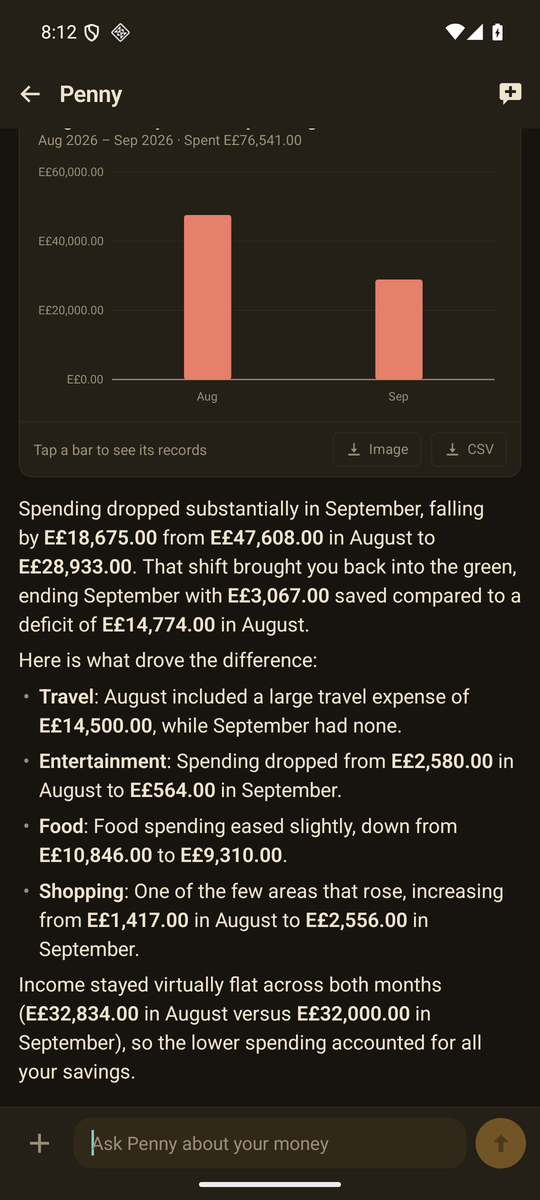
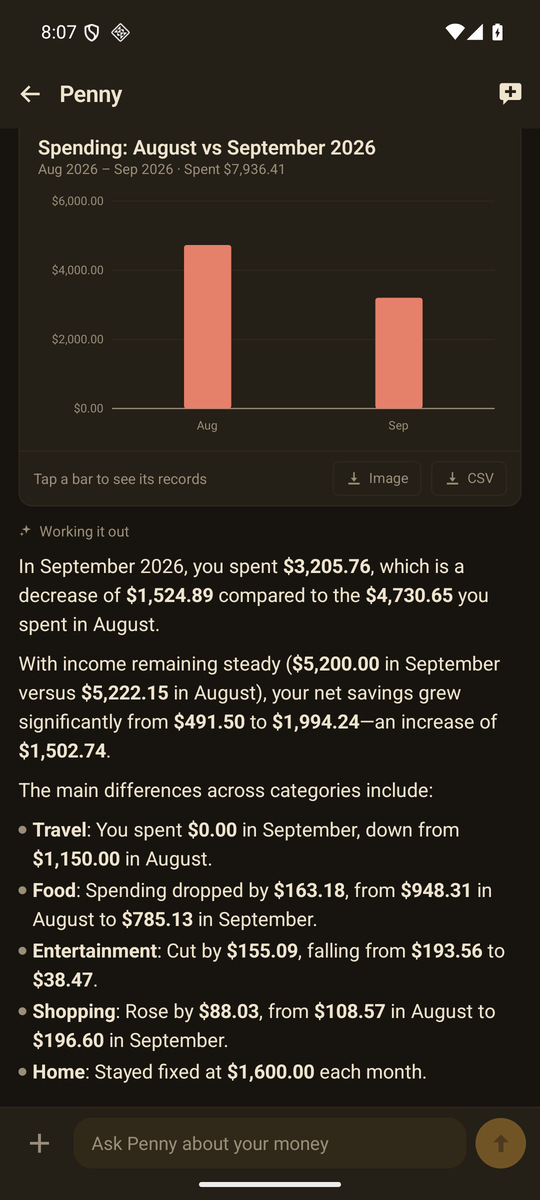
feat(store): Penny's screenshots in dollars too
The demo ledger the Penny shots restore was still a year in pounds, with
Cairo's restaurants and a hotel in Dahab. It is now in US dollars with no
country in it, and writes its homeCurrency INTO the file — Restore replaces
the settings table, so without the row a restored ledger fell back to the
default currency and labelled every dollar as something else. The two
accounts it creates itself now say their currency too; createAccount
defaults to EGP, and the reconciliation test caught them out.

The receipt Penny reads in the third shot is a new dollar one
(scripts/fixtures/receipt-usd.jpg). The EGP fixture stays: the live suite
asserts its exact total.

Regenerated with a real Gemini key: the receipt reads as $13.77 on the
Visa, under Coffee, dated 5 October.

Claude-Session: https://claude.ai/code/session_016A4uHJzvG2yWgxFmH5N3nv

diff --git a/src/test/demo-ledger.ts b/src/test/demo-ledger.ts
@@ -11,7 +11,8 @@
  *   npm run demo:ledger      → .demo/peace-demo.db, pushed to the device's Download
  *
  * THE LEDGER IS INVENTED. The repository is public and real records do not go
- * in it. Amounts come from a seeded generator, so the same file comes out every
+ * in it. It is in US DOLLARS with no country's shops or places in it, because
+ * what it renders becomes the README, the website and the Play listing. Amounts come from a seeded generator, so the same file comes out every
  * time and a screenshot taken today matches one taken next month.
  */
 import { createAccount } from '../db/repo/accounts';
@@ -20,6 +21,7 @@ import { setBudget } from '../db/repo/budgets';
 import { createRule } from '../db/repo/recurring';
 import { ensureTag, setRecordTags } from '../db/repo/tags';
 import { createRecord, createTransfer } from '../db/repo/transactions';
+import { settings } from '../db/schema';
 import { accountId, catId, seedDefaults } from '../db/seed';
 import { addMonths, periodOf } from '../lib/period';
 import type { TestDb } from './db';
@@ -38,22 +40,29 @@ function generator(seed: number) {
 
 export type DemoSummary = { records: number; months: number; rules: number };
 
+/** The ledger's home currency — and the `homeCurrency` setting a restore brings with it. */
+export const DEMO_CURRENCY = 'USD';
+
 export function buildDemoLedger(db: TestDb, now: Date): DemoSummary {
-  seedDefaults(db, 'EGP');
+  seedDefaults(db, DEMO_CURRENCY);
+  // Written INTO the file, because Restore replaces the settings table: without
+  // this row a restored ledger falls back to the built-in default currency and
+  // every dollar on screen is labelled as something else.
+  db.insert(settings).values({ key: 'homeCurrency', value: DEMO_CURRENCY, updatedAt: new Date() }).run();
   const rand = generator(20261007);
   const between = (lo: number, hi: number) => lo + rand() * (hi - lo);
-  /** Whole pounds, in minor units — receipts rarely carry piastres. */
-  const pounds = (lo: number, hi: number) => Math.round(between(lo, hi)) * 100;
+  /** Dollars and cents, in minor units. */
+  const dollars = (lo: number, hi: number) => Math.round(between(lo, hi) * 100);
   const pick = <T,>(list: T[]) => list[Math.floor(rand() * list.length)];
 
   const CASH = accountId('cash');
   const BANK = accountId('bank');
-  const VISA = createAccount(db, { name: 'Visa', type: 'card', creditLimit: 5_000_000, statementDay: 25, dueDay: 10, icon: 'wallet', color: '#3B4E9E' }).id;
-  const SAVINGS = createAccount(db, { name: 'Savings', type: 'savings', openingBalance: 12_000_000, icon: 'bank', color: '#2E7D46' }).id;
+  const VISA = createAccount(db, { name: 'Visa', type: 'card', currency: DEMO_CURRENCY, creditLimit: 500_000, statementDay: 25, dueDay: 10, icon: 'wallet', color: '#3B4E9E' }).id;
+  const SAVINGS = createAccount(db, { name: 'Savings', type: 'savings', currency: DEMO_CURRENCY, openingBalance: 900_000, icon: 'bank', color: '#2E7D46' }).id;
 
   // Opening balances on the seeded accounts, so "Now" starts from something.
-  db.$client.prepare('update accounts set opening_balance = ? where id = ?').run(4_500_000, BANK);
-  db.$client.prepare('update accounts set opening_balance = ? where id = ?').run(150_000, CASH);
+  db.$client.prepare('update accounts set opening_balance = ? where id = ?').run(400_000, BANK);
+  db.$client.prepare('update accounts set opening_balance = ? where id = ?').run(12_000, CASH);
 
   const trip = ensureTag(db, 'Trip');
   const work = ensureTag(db, 'Work');
@@ -65,28 +74,28 @@ export function buildDemoLedger(db: TestDb, now: Date): DemoSummary {
 
   const spend = (account: string, category: string, minor: number, when: Date, note: string | null = null, tags: string[] = []) => {
     if (!past(when)) return;
-    const row = createRecord(db, { type: 'expense', accountId: account, categoryId: catId(category), amountMinor: minor, homeCurrency: 'EGP', occurredAt: when, note });
+    const row = createRecord(db, { type: 'expense', accountId: account, categoryId: catId(category), amountMinor: minor, homeCurrency: DEMO_CURRENCY, occurredAt: when, note });
     if (tags.length > 0) setRecordTags(db, row.id, tags);
     records++;
   };
   const earn = (account: string, category: string, minor: number, when: Date, note: string | null = null, ruleId: string | null = null) => {
     if (!past(when)) return;
-    createRecord(db, { type: 'income', accountId: account, categoryId: catId(category), amountMinor: minor, homeCurrency: 'EGP', occurredAt: when, note, recurringRuleId: ruleId });
+    createRecord(db, { type: 'income', accountId: account, categoryId: catId(category), amountMinor: minor, homeCurrency: DEMO_CURRENCY, occurredAt: when, note, recurringRuleId: ruleId });
     records++;
   };
   const move = (from: string, to: string, minor: number, when: Date, note: string, ruleId: string | null = null) => {
     if (!past(when)) return;
-    createTransfer(db, { fromAccountId: from, toAccountId: to, amountMinor: minor, homeCurrency: 'EGP', occurredAt: when, note, recurringRuleId: ruleId });
+    createTransfer(db, { fromAccountId: from, toAccountId: to, amountMinor: minor, homeCurrency: DEMO_CURRENCY, occurredAt: when, note, recurringRuleId: ruleId });
     records++;
   };
 
   // --- standing orders, a year back, each occurrence posted against its rule ---
   const first = addMonths(periodOf(now), -11);
   const startsOn = (day: number) => `${first}-${String(day).padStart(2, '0')}`;
-  const salaryRule = createRule(db, { name: 'Salary', type: 'income', accountId: BANK, categoryId: catId('salary'), amountMinor: 3_200_000, frequency: 'monthly', startsOn: startsOn(1) }).id;
-  const rentRule = createRule(db, { name: 'Rent', type: 'expense', accountId: BANK, categoryId: catId('home'), amountMinor: 950_000, frequency: 'monthly', startsOn: startsOn(3) }).id;
-  const netflixRule = createRule(db, { name: 'Netflix', type: 'expense', accountId: VISA, categoryId: catId('entertainment'), amountMinor: 25_000, frequency: 'monthly', startsOn: startsOn(12) }).id;
-  const savingsRule = createRule(db, { name: 'To savings', type: 'transfer', accountId: BANK, counterAccountId: SAVINGS, amountMinor: 500_000, frequency: 'monthly', startsOn: startsOn(2) }).id;
+  const salaryRule = createRule(db, { name: 'Salary', type: 'income', accountId: BANK, categoryId: catId('salary'), amountMinor: 520_000, frequency: 'monthly', startsOn: startsOn(1) }).id;
+  const rentRule = createRule(db, { name: 'Rent', type: 'expense', accountId: BANK, categoryId: catId('home'), amountMinor: 160_000, frequency: 'monthly', startsOn: startsOn(3) }).id;
+  const netflixRule = createRule(db, { name: 'Netflix', type: 'expense', accountId: VISA, categoryId: catId('entertainment'), amountMinor: 1_549, frequency: 'monthly', startsOn: startsOn(12) }).id;
+  const savingsRule = createRule(db, { name: 'To savings', type: 'transfer', accountId: BANK, counterAccountId: SAVINGS, amountMinor: 60_000, frequency: 'monthly', startsOn: startsOn(2) }).id;
 
   for (let i = 11; i >= 0; i--) {
     const period = addMonths(periodOf(now), -i);
@@ -97,74 +106,74 @@ export function buildDemoLedger(db: TestDb, now: Date): DemoSummary {
     const summer = m >= 5 && m <= 8;
 
     // Income
-    earn(BANK, 'salary', 3_200_000, at(y, m, 1, 9), 'Payroll', salaryRule);
-    if (m === 11 || m === 5) earn(BANK, 'bonus', 800_000, at(y, m, 20, 10), 'Half-year bonus');
-    if (rand() < 0.3) earn(SAVINGS, 'interest', pounds(600, 900), at(y, m, days, 8), 'Savings interest');
+    earn(BANK, 'salary', 520_000, at(y, m, 1, 9), 'Payroll', salaryRule);
+    if (m === 11 || m === 5) earn(BANK, 'bonus', 150_000, at(y, m, 20, 10), 'Half-year bonus');
+    if (rand() < 0.3) earn(SAVINGS, 'interest', dollars(12, 25), at(y, m, days, 8), 'Savings interest');
 
     // Standing orders (rent and Netflix by rule; utilities by hand)
     if (past(at(y, m, 3, 10))) {
-      createRecord(db, { type: 'expense', accountId: BANK, categoryId: catId('home'), amountMinor: 950_000, homeCurrency: 'EGP', occurredAt: at(y, m, 3, 10), note: 'Rent', recurringRuleId: rentRule });
+      createRecord(db, { type: 'expense', accountId: BANK, categoryId: catId('home'), amountMinor: 160_000, homeCurrency: DEMO_CURRENCY, occurredAt: at(y, m, 3, 10), note: 'Rent', recurringRuleId: rentRule });
       records++;
     }
     if (past(at(y, m, 12, 7))) {
-      createRecord(db, { type: 'expense', accountId: VISA, categoryId: catId('entertainment'), amountMinor: 25_000, homeCurrency: 'EGP', occurredAt: at(y, m, 12, 7), note: 'Netflix', recurringRuleId: netflixRule });
+      createRecord(db, { type: 'expense', accountId: VISA, categoryId: catId('entertainment'), amountMinor: 1_549, homeCurrency: DEMO_CURRENCY, occurredAt: at(y, m, 12, 7), note: 'Netflix', recurringRuleId: netflixRule });
       records++;
     }
-    move(BANK, SAVINGS, 500_000, at(y, m, 2, 11), 'Monthly saving', savingsRule);
-    spend(BANK, 'electricity', pounds(summer ? 850 : 420, summer ? 1300 : 650), at(y, m, day(5, 9), 18), 'Electricity bill');
-    spend(BANK, 'internet', 55_000, at(y, m, 6, 18), 'Home internet');
-    spend(BANK, 'telephone', pounds(280, 360), at(y, m, 8, 18), 'Mobile plan');
+    move(BANK, SAVINGS, 60_000, at(y, m, 2, 11), 'Monthly saving', savingsRule);
+    spend(BANK, 'electricity', dollars(summer ? 120 : 70, summer ? 180 : 105), at(y, m, day(5, 9), 18), 'Electricity bill');
+    spend(BANK, 'internet', 6_000, at(y, m, 6, 18), 'Home internet');
+    spend(BANK, 'telephone', dollars(35, 45), at(y, m, 8, 18), 'Mobile plan');
 
     // Cash out of the machine — a transfer, not spending
-    move(BANK, CASH, 200_000, at(y, m, day(1, 6), 13), 'ATM');
-    move(BANK, CASH, 200_000, at(y, m, day(14, 19), 13), 'ATM');
+    move(BANK, CASH, 20_000, at(y, m, day(1, 6), 13), 'ATM');
+    move(BANK, CASH, 20_000, at(y, m, day(14, 19), 13), 'ATM');
 
     // Groceries: a weekly shop on the card, top-ups in cash
-    for (let w = 0; w < 4; w++) spend(VISA, 'groceries', pounds(650, 1400), at(y, m, Math.min(days, 3 + w * 7 + day(0, 2)), 19), pick(['Carrefour', 'Spinneys', 'Gourmet', 'Metro']));
-    for (let k = 0; k < 3; k++) spend(CASH, 'groceries', pounds(60, 240), at(y, m, day(), 20), pick(['Bakery', 'Fruit stand', 'Kiosk']));
+    for (let w = 0; w < 4; w++) spend(VISA, 'groceries', dollars(60, 140), at(y, m, Math.min(days, 3 + w * 7 + day(0, 2)), 19), pick(['Supermarket', 'Farmers market', 'Wholesale club', 'Organic shop']));
+    for (let k = 0; k < 3; k++) spend(CASH, 'groceries', dollars(5, 22), at(y, m, day(), 20), pick(['Bakery', 'Fruit stand', 'Corner shop']));
 
     // Coffee — creeping up over the year, so month-to-month has a story
     const coffees = Math.round(between(6, 9) + (11 - i) * 0.6);
-    for (let k = 0; k < coffees; k++) spend(CASH, 'coffee', pounds(55, 115), at(y, m, day(), 9, day(0, 50)), pick(['Flat white', 'Espresso', 'Iced latte', 'Cappuccino']), rand() < 0.35 ? [work.id] : []);
+    for (let k = 0; k < coffees; k++) spend(CASH, 'coffee', dollars(3.5, 6.5), at(y, m, day(), 9, day(0, 50)), pick(['Flat white', 'Espresso', 'Iced latte', 'Cappuccino']), rand() < 0.35 ? [work.id] : []);
 
     // Restaurants
-    for (let k = 0; k < Math.round(between(2, 5)); k++) spend(VISA, 'restaurants', pounds(350, 1100), at(y, m, day(), 21), pick(['Zooba', 'Sachi', 'Kazoku', 'Abou El Sid', 'Lunch out']));
+    for (let k = 0; k < Math.round(between(2, 5)); k++) spend(VISA, 'restaurants', dollars(25, 85), at(y, m, day(), 21), pick(['Thai place', 'Pizza night', 'Sushi bar', 'Burger joint', 'Lunch out']));
 
     // Fuel: two or three fills, the price stepping up in spring
     const fuelPrice = m >= 2 && m <= 9 ? 1.18 : 1;
-    for (let k = 0; k < (rand() < 0.5 ? 2 : 3); k++) spend(VISA, 'fuel', Math.round(between(700, 1050) * fuelPrice) * 100, at(y, m, day(), 17), pick(['Shell', 'Total', 'Wataniya']));
+    for (let k = 0; k < (rand() < 0.5 ? 2 : 3); k++) spend(VISA, 'fuel', Math.round(between(45, 65) * fuelPrice * 100), at(y, m, day(), 17), pick(['Gas station', 'Fill-up', 'Fuel']));
 
     // Taxis, some of them for work
-    for (let k = 0; k < Math.round(between(3, 8)); k++) spend(CASH, 'taxi', pounds(70, 260), at(y, m, day(), 22), 'Uber', rand() < 0.4 ? [work.id] : []);
+    for (let k = 0; k < Math.round(between(3, 8)); k++) spend(CASH, 'taxi', dollars(9, 30), at(y, m, day(), 22), 'Ride home', rand() < 0.4 ? [work.id] : []);
 
     // The occasional
-    if (rand() < 0.6) spend(VISA, 'shopping', pounds(400, 2600), at(y, m, day(), 16), pick(['Amazon', 'IKEA', 'Electronics', 'Books']));
-    if (rand() < 0.4) spend(CASH, 'health', pounds(150, 900), at(y, m, day(), 11), pick(['Pharmacy', 'Dentist', 'Checkup']));
-    if (rand() < 0.5) spend(VISA, 'entertainment', pounds(200, 700), at(y, m, day(), 20), pick(['Cinema', 'Concert', 'Bowling']));
-    if (rand() < 0.3) spend(CASH, 'car', pounds(300, 1500), at(y, m, day(), 12), pick(['Car wash', 'Oil change', 'Parking']));
+    if (rand() < 0.6) spend(VISA, 'shopping', dollars(30, 200), at(y, m, day(), 16), pick(['Online order', 'Furniture', 'Electronics', 'Books']));
+    if (rand() < 0.4) spend(CASH, 'health', dollars(15, 90), at(y, m, day(), 11), pick(['Pharmacy', 'Dentist', 'Checkup']));
+    if (rand() < 0.5) spend(VISA, 'entertainment', dollars(15, 50), at(y, m, day(), 20), pick(['Cinema', 'Concert', 'Bowling']));
+    if (rand() < 0.3) spend(CASH, 'car', dollars(20, 120), at(y, m, day(), 12), pick(['Car wash', 'Oil change', 'Parking']));
 
     // Clothing, with one return
     if (rand() < 0.45 || m === 3) {
       const when = at(y, m, day(1, 20), 15);
-      spend(VISA, 'clothing', pounds(900, 2400), when, pick(['Shoes', 'Jacket', 'Shirts']));
+      spend(VISA, 'clothing', dollars(40, 150), when, pick(['Shoes', 'Jacket', 'Shirts']));
       if (m === 3 && past(at(y, m, when.getDate() + 5, 15))) {
-        createRecord(db, { type: 'expense', isRefund: true, accountId: VISA, categoryId: catId('clothing'), amountMinor: 60_000, homeCurrency: 'EGP', occurredAt: at(y, m, when.getDate() + 5, 15), note: 'Returned one pair' });
+        createRecord(db, { type: 'expense', isRefund: true, accountId: VISA, categoryId: catId('clothing'), amountMinor: 4_500, homeCurrency: DEMO_CURRENCY, occurredAt: at(y, m, when.getDate() + 5, 15), note: 'Returned one pair' });
         records++;
       }
     }
 
     // December gifts, a summer trip, a spring wedding
-    if (m === 11) for (let k = 0; k < 4; k++) spend(VISA, 'gifts', pounds(400, 1500), at(y, m, day(10, 24), 18), pick(['Gift for Mum', 'Gift for Omar', 'Secret Santa', 'Flowers']));
+    if (m === 11) for (let k = 0; k < 4; k++) spend(VISA, 'gifts', dollars(25, 90), at(y, m, day(10, 24), 18), pick(['Gift for Mum', 'Gift for Sam', 'Secret Santa', 'Flowers']));
     if (m === 7) {
-      spend(VISA, 'travel', 1_450_000, at(y, m, 9, 10), 'Hotel — Dahab, 5 nights', [trip.id]);
-      spend(VISA, 'fuel', 120_000, at(y, m, 9, 7), 'Fuel on the road', [trip.id]);
-      for (let k = 0; k < 5; k++) spend(CASH, 'restaurants', pounds(300, 800), at(y, m, 10 + k, 20), 'Dinner in Dahab', [trip.id]);
-      spend(CASH, 'entertainment', 180_000, at(y, m, 12, 9), 'Diving trip', [trip.id]);
+      spend(VISA, 'travel', 115_000, at(y, m, 9, 10), 'Hotel by the sea, 5 nights', [trip.id]);
+      spend(VISA, 'fuel', 8_500, at(y, m, 9, 7), 'Fuel on the road', [trip.id]);
+      for (let k = 0; k < 5; k++) spend(CASH, 'restaurants', dollars(30, 70), at(y, m, 10 + k, 20), 'Dinner on the trip', [trip.id]);
+      spend(CASH, 'entertainment', 14_000, at(y, m, 12, 9), 'Diving trip', [trip.id]);
     }
     if (m === 2) {
-      spend(VISA, 'clothing', 320_000, at(y, m, 14, 16), 'Suit for the wedding', [wedding.id]);
-      spend(VISA, 'gifts', 500_000, at(y, m, 21, 12), 'Wedding gift', [wedding.id]);
-      spend(CASH, 'beauty', 60_000, at(y, m, 22, 14), 'Barber', [wedding.id]);
+      spend(VISA, 'clothing', 32_000, at(y, m, 14, 16), 'Suit for the wedding', [wedding.id]);
+      spend(VISA, 'gifts', 20_000, at(y, m, 21, 12), 'Wedding gift', [wedding.id]);
+      spend(CASH, 'beauty', 3_500, at(y, m, 22, 14), 'Barber', [wedding.id]);
     }
 
     // Pay the card off in full on statement day. This month's statement has
@@ -175,12 +184,12 @@ export function buildDemoLedger(db: TestDb, now: Date): DemoSummary {
 
   // Budgets for this month and last, set so the screen shows every state.
   for (const period of [addMonths(periodOf(now), -1), periodOf(now)]) {
-    setBudget(db, catId('food'), period, 900_000);
-    setBudget(db, catId('transport'), period, 150_000);
-    setBudget(db, catId('car'), period, 300_000);
-    setBudget(db, catId('shopping'), period, 200_000);
-    setBudget(db, catId('entertainment'), period, 100_000);
-    setBudget(db, catId('bills'), period, 180_000);
+    setBudget(db, catId('food'), period, 70_000);
+    setBudget(db, catId('transport'), period, 12_000);
+    setBudget(db, catId('car'), period, 25_000);
+    setBudget(db, catId('shopping'), period, 15_000);
+    setBudget(db, catId('entertainment'), period, 8_000);
+    setBudget(db, catId('bills'), period, 25_000);
   }
 
   return { records, months: 12, rules: 4 };

diff --git a/src/test/demo-ledger.test.ts b/src/test/demo-ledger.test.ts
@@ -17,7 +17,7 @@ import { dueProposals } from '../db/repo/recurring';
 import { toYmd } from '../lib/recurrence';
 import { periodOf } from '../lib/period';
 import { createTestDb } from './db';
-import { buildDemoLedger } from './demo-ledger';
+import { buildDemoLedger, DEMO_CURRENCY } from './demo-ledger';
 
 const NOW = new Date(Number(process.env.DEMO_LEDGER_NOW ?? Date.now()));
 
@@ -35,9 +35,18 @@ describe('the demo ledger', () => {
 
   it('reconciles the way the real screens must: carried + this month = what the accounts hold', () => {
     const period = periodOf(NOW);
-    const carried = broughtForward(db, period, 'EGP').amountMinor;
-    const month = periodSummary(db, period, 'EGP').balanceMinor;
-    expect(carried + month).toBe(balanceByCurrency(db).find((t) => t.currency === 'EGP')!.balanceMinor);
+    const carried = broughtForward(db, period, DEMO_CURRENCY).amountMinor;
+    const month = periodSummary(db, period, DEMO_CURRENCY).balanceMinor;
+    expect(carried + month).toBe(
+      balanceByCurrency(db).find((t) => t.currency === DEMO_CURRENCY)!.balanceMinor
+    );
+  });
+
+  it('carries its currency, so a restore does not relabel every amount', () => {
+    const row = sqlite.prepare("select value from settings where key = 'homeCurrency'").get() as
+      | { value: string }
+      | undefined;
+    expect(row?.value).toBe(DEMO_CURRENCY);
   });
 
   it('writes the file when asked', () => {

diff --git a/README.md b/README.md
@@ -54,7 +54,7 @@ no ads, no analytics — and nothing reaches the network unless you ask it to.
 <tr>
 <td><img src="docs/screenshots/penny-ask.png" alt="Penny comparing September with August: a bar chart of both months' spending, then a written answer that spending fell, with every amount drawn from the ledger and the changes in travel, entertainment, food and shopping listed"></td>
 <td><img src="docs/screenshots/penny-chart.png" alt="Penny answering how coffee spending compares month to month with a six-month bar chart and a two-line summary naming the highest and lowest months"></td>
-<td><img src="docs/screenshots/penny-receipt.png" alt="A photographed café receipt sent to Penny with 'Log this, I paid with the Visa', and the card it proposes: E£240.80 on the Visa under Coffee, dated 5 October, with the photo attached and Add and Decline buttons"></td>
+<td><img src="docs/screenshots/penny-receipt.png" alt="A photographed café receipt sent to Penny with 'Log this, I paid with the Visa', and the card it proposes: $13.77 on the Visa under Coffee, dated 5 October, with the photo attached and Add and Decline buttons"></td>
 </tr>
 <tr>
 <td align="center"><b>Ask Penny</b><br><sub>Answers worked out from your ledger, never estimated.</sub></td>
